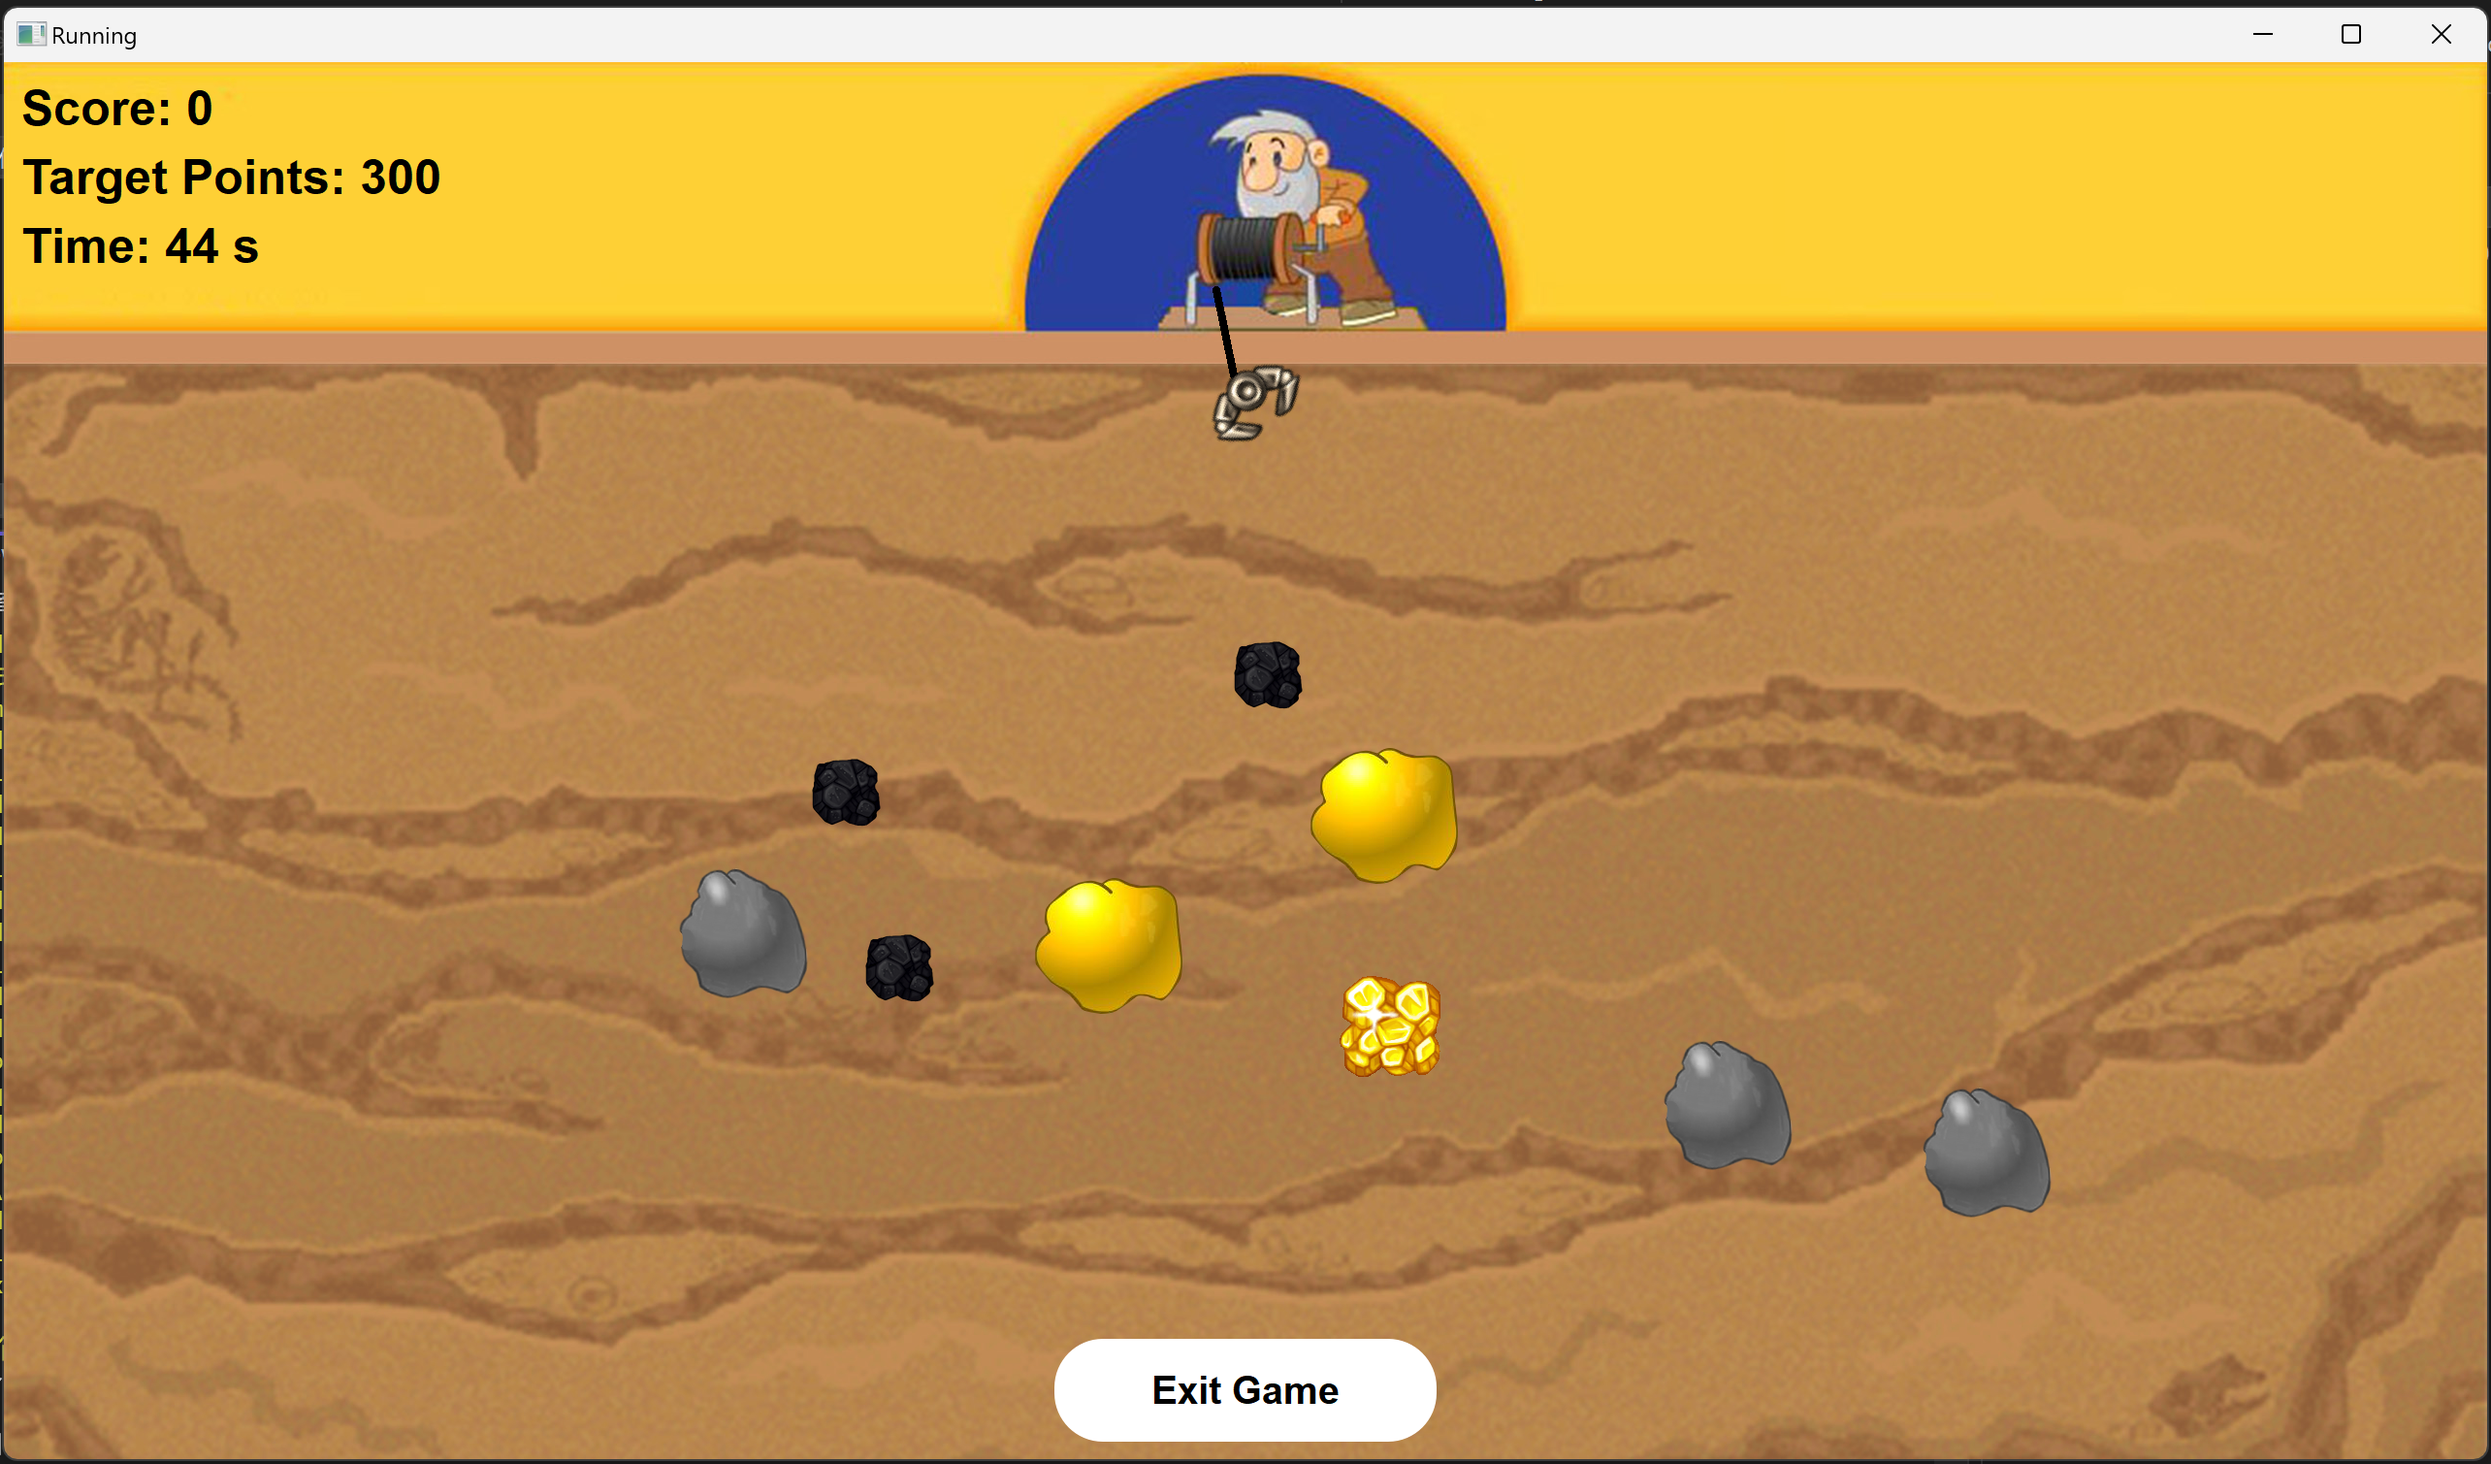
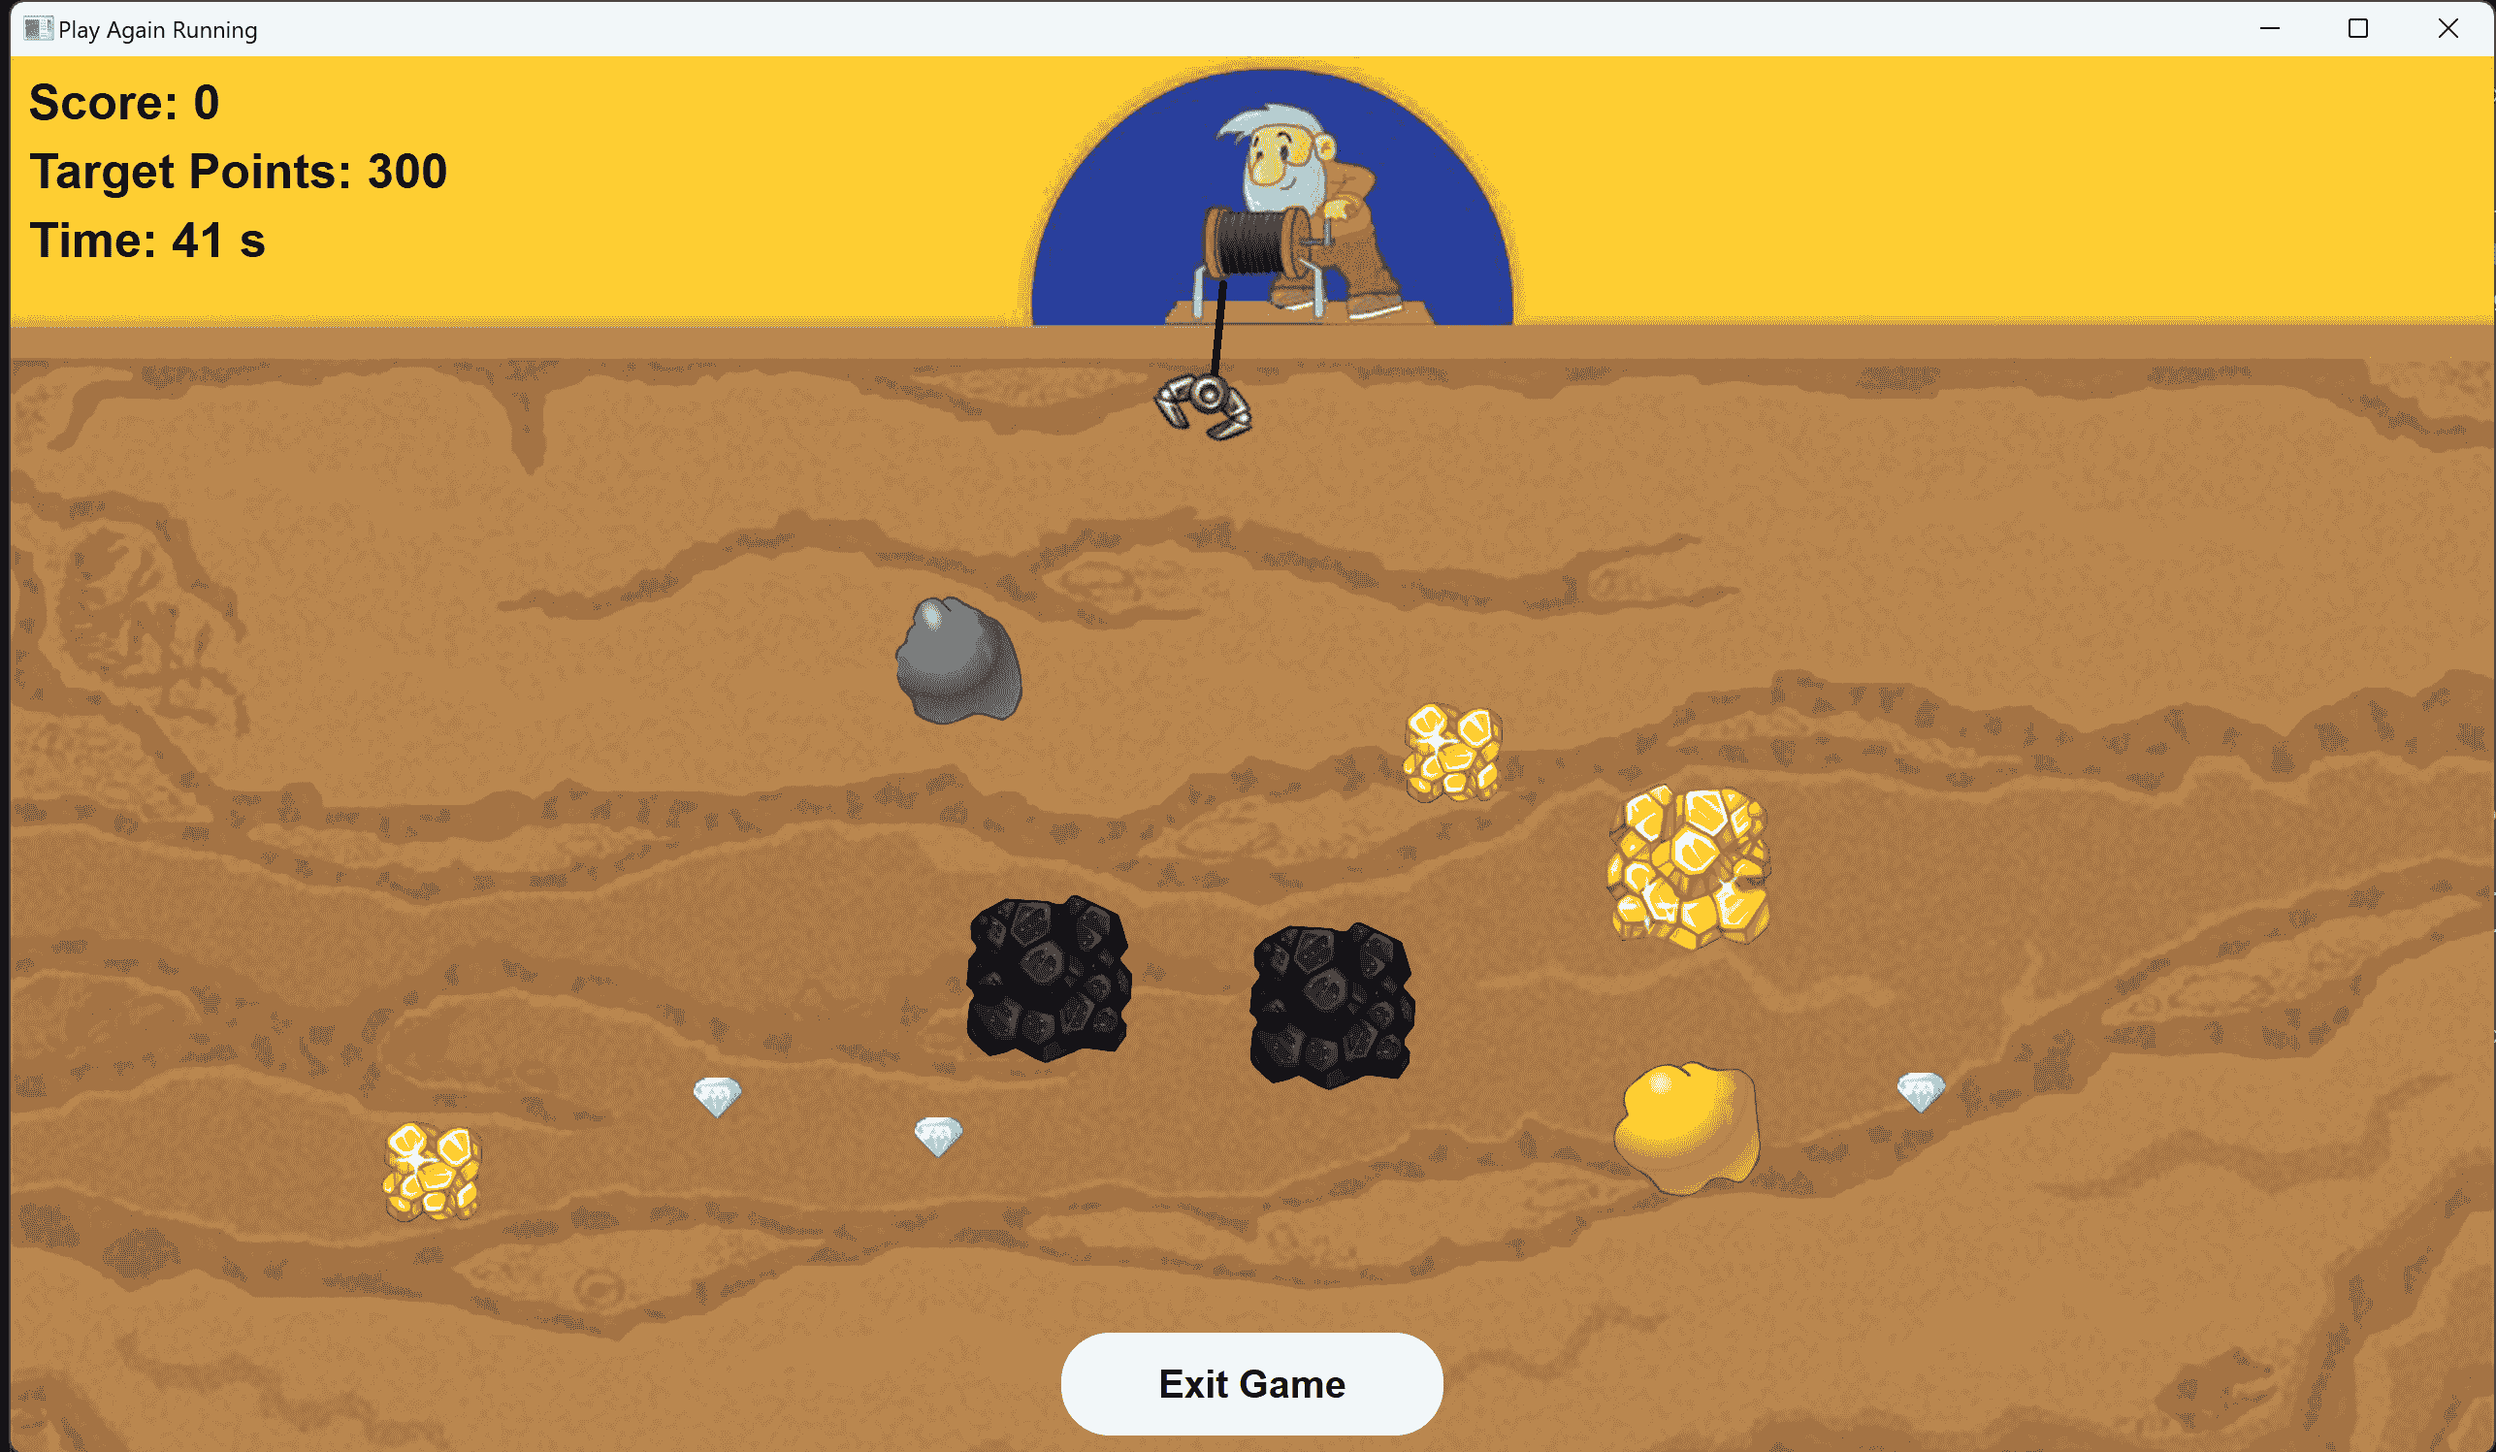
压缩报告图片，增加钻石

diff --git a/GoldMiner/src/model/Model.h b/GoldMiner/src/model/Model.h
@@ -31,7 +31,7 @@
 #define BLOCK_X_MAX (SCREEN_X_BOUND)
 
 const int g_goldValue[3] = {50, 100, 500};
-const int g_stoneValue[3] = {33, 60, 90};
+const int g_stoneValue[3] = {1000, 60, 90};
 const double g_goldSize[3] = { SMALL_GOLD, MIDDLE_GOLD, BIG_GOLD };
 const double g_stoneSize[3] = { SMALL_STONE, MIDDLE_STONE, BIG_STONE };
 

diff --git a/doc/midterm_summary.md b/doc/midterm_summary.md
@@ -1,4 +1,6 @@
-# 中期总结
+# 黄金矿工组 - 中期总结
+
+> 成员：薛柔，姚懿宸，朱熙哲
 
 ---------
 
@@ -23,7 +25,7 @@
 
 2. 协作过程中的文件编码问题
    
-    在本课程中第一次使用 visual stdio 作为 IDE，然而 visual stdio 的默认编码格式不是 UTF-8，一位组员第一次发起的 pull request 代码在一些编辑器上成了乱码，不得不改编码格式后重写注释。
+    在本课程中第一次使用 visual stdio 作为 IDE，然而 visual stdio 的默认编码格式不是 UTF-8，一位组员第一次发起的 pull request 代码在一些编辑器上成了乱码，必须统一更改编码格式。
 
 3. Qt 框架下如何传递信号
 
